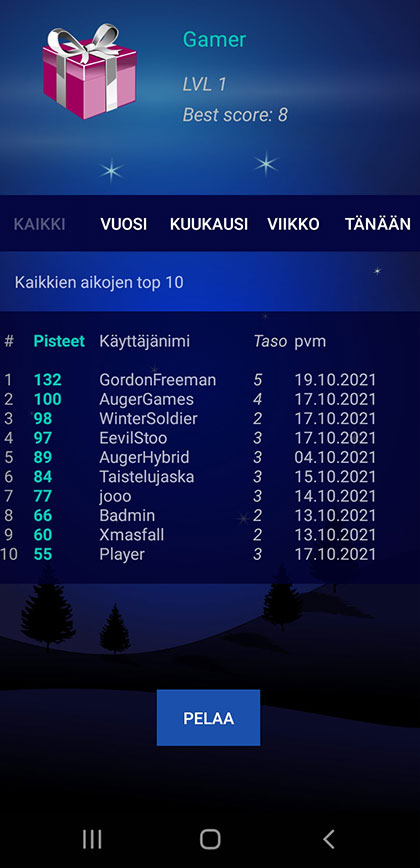
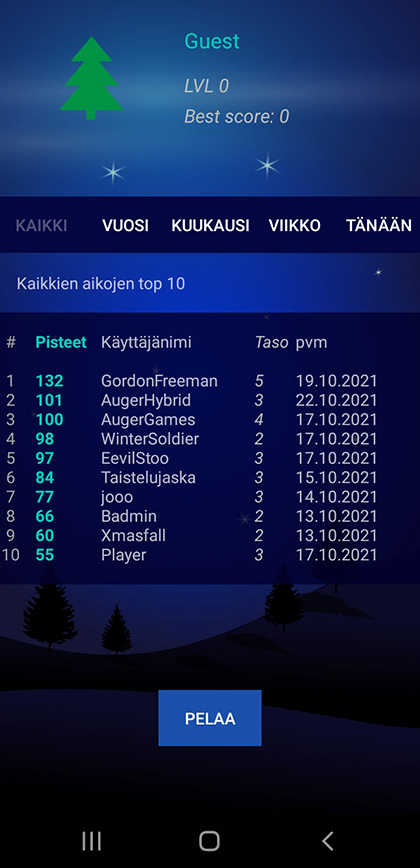
vko42_1

diff --git a/xmasfall_app/app/src/main/java/com/augergames/xmasfall/UserActivity.java b/xmasfall_app/app/src/main/java/com/augergames/xmasfall/UserActivity.java
@@ -7,8 +7,10 @@ import android.graphics.Color;
 import android.net.Uri;
 import android.os.Bundle;
 
+import android.util.Log;
 import android.view.View;
 import android.widget.Button;
+import android.widget.ImageView;
 import android.widget.TextView;
 import android.widget.Toast;
 
@@ -19,6 +21,7 @@ import com.android.volley.VolleyError;
 import com.android.volley.toolbox.JsonObjectRequest;
 import com.android.volley.toolbox.StringRequest;
 import com.android.volley.toolbox.Volley;
+import com.squareup.picasso.Picasso;
 
 import org.json.JSONArray;
 import org.json.JSONException;
@@ -32,9 +35,12 @@ import java.util.Date;
 import java.util.HashMap;
 import java.util.Map;
 
+import static com.android.volley.VolleyLog.TAG;
+
 
 public class UserActivity extends AppCompatActivity {
     private int userID = 0;
+    private boolean isGuest = true;
     private String userName = "Guest";
     private int userHiscore = 0;
     private int userLVL = 0;
@@ -43,7 +49,7 @@ public class UserActivity extends AppCompatActivity {
     private String userURL = "https://augergames.com/xmasfall/autologin.php";
     private RequestQueue queue;
     private String apikey = "a7e15036691751d80a4ac8d4f005b4b7";
-    private boolean needSync = false;
+    private boolean needSync = true;
 
 
     @Override
@@ -77,10 +83,11 @@ public class UserActivity extends AppCompatActivity {
         }
         queue = Volley.newRequestQueue(this);
 
+        if(userID != 0){
+            isGuest = false;
+        }
 
         buttonAll.performClick();
-
-
 
     }
 
@@ -88,12 +95,10 @@ public class UserActivity extends AppCompatActivity {
     public void onResume( ){
         super.onResume();
 
-        if(needSync){
+        if(needSync && !isGuest){
             syncUserData();
         }
 
-
-      //  Toast.makeText(this,"onRestoreInstanceState",Toast.LENGTH_SHORT).show();
     }
     public void buttonHandler(int btn){
         Button buttonAll = findViewById(R.id.buttonAll);
@@ -148,6 +153,21 @@ public class UserActivity extends AppCompatActivity {
     public void syncUserData() {
         needSync = false;
 
+        String imgurl= "https://augergames.com/xmasfall/ranks/rank0.png";
+
+        if(userLVL>0 && userLVL<6){
+            imgurl= "https://augergames.com/xmasfall/ranks/rank"+userLVL+".png";
+        }
+        else if(userLVL>5){
+            imgurl= "https://augergames.com/xmasfall/ranks/rank5.png";
+        }
+
+        ImageView avatarImageView = findViewById(R.id.avatarImageView);
+        Picasso.get()
+                .load(imgurl)
+                .error(R.drawable.rankzero)
+                .into(avatarImageView);
+
         String postUrl ="https://augergames.com/xmasfall/api.php";
 
         StringRequest sr = new StringRequest(Request.Method.POST,postUrl, new Response.Listener<String>() {
@@ -175,7 +195,6 @@ public class UserActivity extends AppCompatActivity {
 
     }
     public void parseJSONandUpdateUI(String response){
-       // Toast.makeText(this,"Here",Toast.LENGTH_SHORT).show();
 
 
         try{
@@ -317,7 +336,7 @@ public class UserActivity extends AppCompatActivity {
         }
         catch(JSONException | ParseException e){
 
-            Toast.makeText(this,e.toString(),Toast.LENGTH_SHORT).show();
+           // Toast.makeText(this,e.toString(),Toast.LENGTH_SHORT).show();
             // Toast.makeText(this,response.toString(),Toast.LENGTH_SHORT).show();
 
         }

diff --git a/xmasfall_app/app/src/main/java/com/augergames/xmasfall/MainActivity.java b/xmasfall_app/app/src/main/java/com/augergames/xmasfall/MainActivity.java
@@ -1,11 +1,17 @@
 package com.augergames.xmasfall;
 
 import androidx.appcompat.app.AppCompatActivity;
+import androidx.constraintlayout.widget.ConstraintLayout;
+import androidx.fragment.app.DialogFragment;
 
+import android.app.AlertDialog;
+import android.app.Dialog;
+import android.content.DialogInterface;
 import android.content.Intent;
 import android.os.Bundle;
 import android.text.Editable;
 import android.text.TextWatcher;
+import android.view.LayoutInflater;
 import android.view.View;
 import android.widget.Button;
 import android.widget.EditText;
@@ -69,6 +75,7 @@ public class MainActivity extends AppCompatActivity {
             }
         });
         queue = Volley.newRequestQueue(this);
+
     }
 
     @Override
@@ -237,5 +244,29 @@ public class MainActivity extends AppCompatActivity {
 
         startActivity(intent);
     }
+
+    public void openDialog(View view){
+        AlertDialog.Builder builder = new AlertDialog.Builder(MainActivity.this);
+        builder.setMessage(R.string.dialog_title)
+            .setPositiveButton("OK", new DialogInterface.OnClickListener() {
+                public void onClick(DialogInterface dialog, int id) {
+                    Intent intent = new Intent(MainActivity.this, UserActivity.class);
+                    intent.putExtra("userID", 0);
+                    intent.putExtra("userName", "Guest");
+                    intent.putExtra("userLVL", 0);
+                    intent.putExtra("userXP", 0);
+                    intent.putExtra("key", key);
+                    intent.putExtra("hiscore", 0);
+                    startActivity(intent);
+                }
+            })
+            .setNegativeButton(R.string.cancel, new DialogInterface.OnClickListener() {
+                public void onClick(DialogInterface dialog, int id) {
+                }
+            });
+        builder.show();
+
+    }
+
 
 }

diff --git a/api/autologin.php b/api/autologin.php
@@ -32,21 +32,30 @@ if (isset($_GET['key'])){
                 $truelvl = lvlcalc($row['xp']);
                 $_SESSION['lvl'] = $truelvl;
 
-            if(file_exists('game') && $_SESSION['id'] != '') {
+            if(file_exists('android') && $_SESSION['id'] != '') {
 
-                $files = scandir('game', SCANDIR_SORT_DESCENDING);
+                $files = scandir('android', SCANDIR_SORT_DESCENDING);
                 $newest_file = $files[0];
-                header("location: game/".$newest_file);
+                header("location: android/".$newest_file);
             }
             else{
-                echo 'Failed to load game';
+                echo 'Failed to load game <a href="index.php">Back to Login</a>';
             }
         }
 
         else{
 
-            $arr = array('error' => 'Wrong or expired key');
-            echo json_encode($arr);
+            if(is_null($key)){
+                $files = scandir('android', SCANDIR_SORT_DESCENDING);
+                $newest_file = $files[0];
+                header("location: android/".$newest_file);
+            }
+            else{
+                 header("location: http://augergames.com/xmasfall/exit_browser.php");
+
+            }
+
+
         }
     }
 

diff --git a/README.md b/README.md
@@ -13,7 +13,6 @@ _by Aki Kurvinen, 19I224, 5G00EV05-3001_
 
 ## Screenshots
 
-![Gameplay]()
 <a href="url"><img src="https://github.com/AkiKurvinen/xmasfall/blob/main/screenshots/gameplay5.jpg" align="left" height="355" width="200" alt="Screenshot 1"></a>
 <a href="url"><img src="https://github.com/AkiKurvinen/xmasfall/blob/main/screenshots/gameplay2.jpg" align="left" height="355" width="200" alt="Screenshot 2"></a>
 <a href="url"><img src="https://github.com/AkiKurvinen/xmasfall/blob/main/screenshots/gameplay3.jpg" align="left" height="355" width="200" alt="Screenshot 3"></a>
